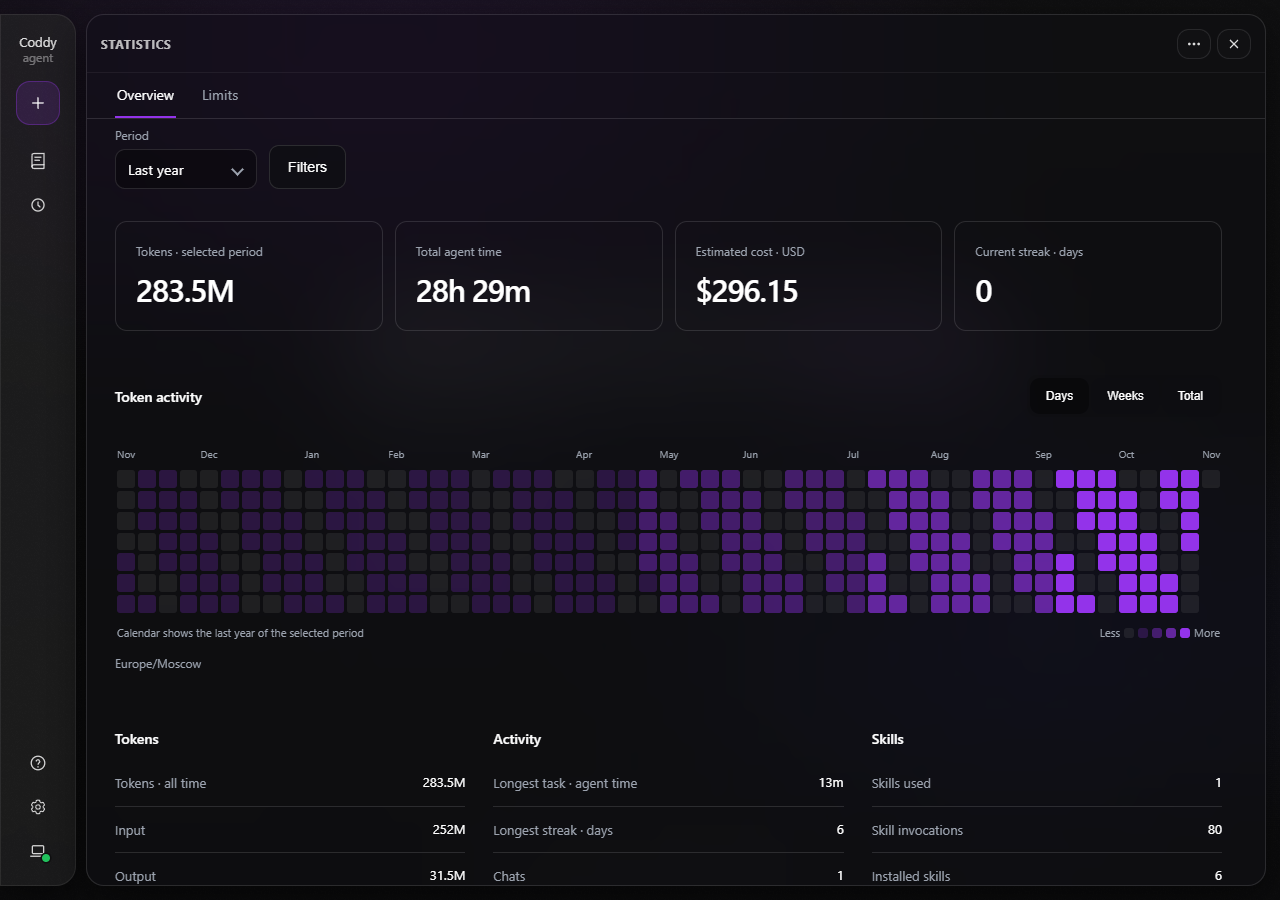
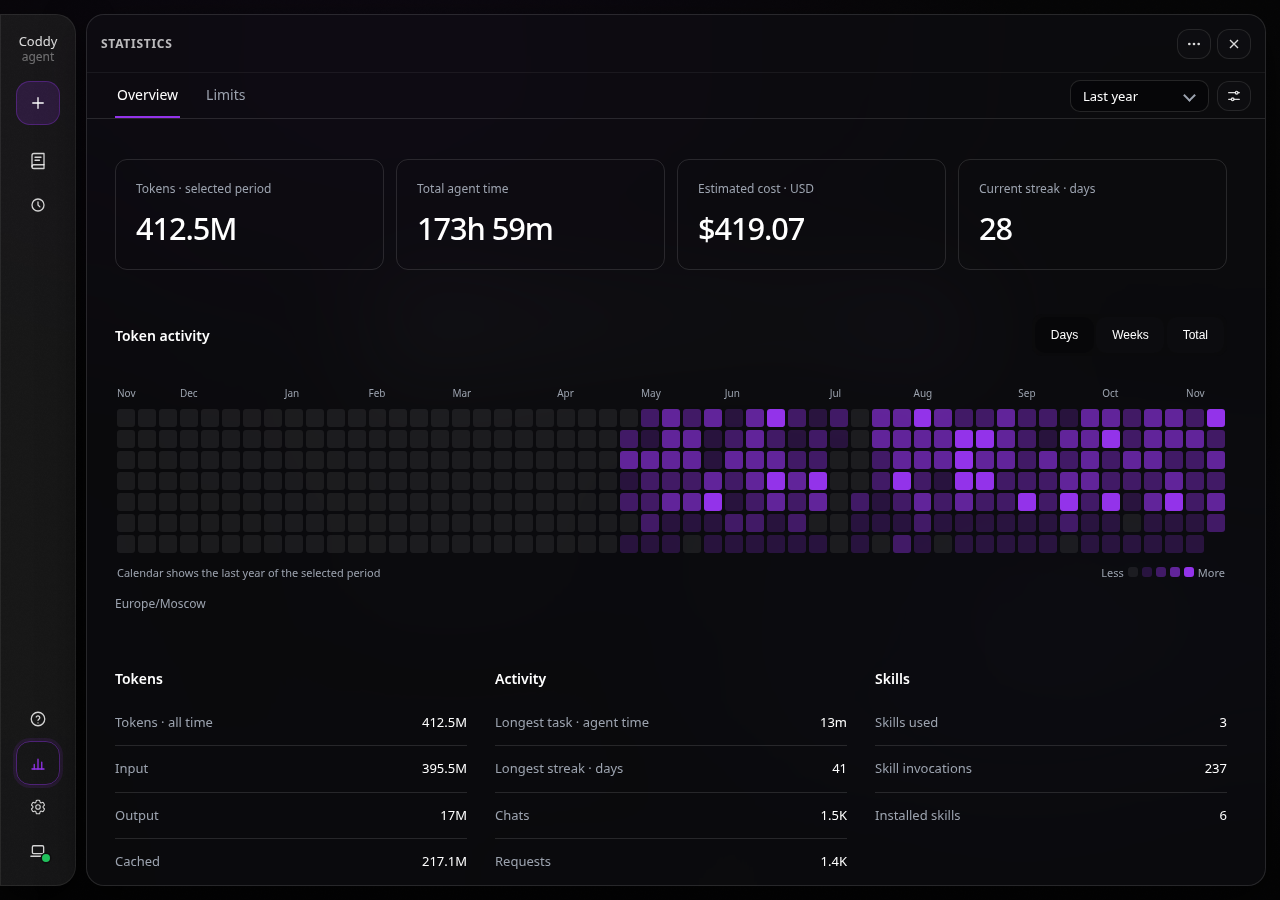
docs(statistics): show the page and its settings as they are now
The overview on the page still had the filters under the tabs and the old
labels; the settings of the statistics were described and never shown. Both
captured on a stand with neutral fixtures, Dark, 1280 wide.

diff --git a/docs/assets/INDEX.md b/docs/assets/INDEX.md
@@ -30,7 +30,7 @@ Screenshots taken as evidence for a pull request do not belong here. Attach them
 Generated by `make docs`. "Used by" lists the files that reference the asset.
 
 <!-- docsgen:assets:start -->
-357 files, 86.0 MB in total.
+358 files, 86.4 MB in total.
 
 ### docs/assets
 
@@ -426,7 +426,8 @@ Generated by `make docs`. "Used by" lists the files that reference the asset.
 |------|------|---------|
 | `statistics-import-dark-1280.png` | 144 KB | docs/features/statistics.md, docs/ru/features/statistics.md |
 | `statistics-limits-dark-1280.png` | 191 KB | docs/features/statistics.md, docs/ru/features/statistics.md |
-| `statistics-overview-dark-1280.png` | 185 KB | docs/features/statistics.md, docs/ru/features/statistics.md |
+| `statistics-overview-dark-1280.png` | 176 KB | docs/features/statistics.md, docs/ru/features/statistics.md |
+| `statistics-settings-dark-1280.png` | 376 KB | docs/features/statistics.md, docs/ru/features/statistics.md |
 
 ### docs/assets/subagents
 

diff --git a/docs/features/statistics.md b/docs/features/statistics.md
@@ -22,6 +22,10 @@ offering the page, since there would be nothing to draw. What is already
 recorded stays on disk; the reset below is what removes it. Switching the
 collection back on starts recording again from that moment.
 
+![The statistics settings](../assets/statistics/statistics-settings-dark-1280.png)
+
+*The switch, the time zone, the reset and the custom tariffs, saved by the Save of the drawer.*
+
 ## Storage and cleanup
 
 The counters live under `<home>/statistics/`, apart from session bundles. Monthly `.jsonl` journals keep call records and turn checkpoints; `settings.json` keeps the dataset identity, time zone, prices, import progress and cleanup cutoff. Writes are serialized across Coddy processes sharing the same home. The last complete checkpoint wins; an unfinished final journal record is dropped before the next append. No prompt, answer, tool arguments or credential is copied into this store.
